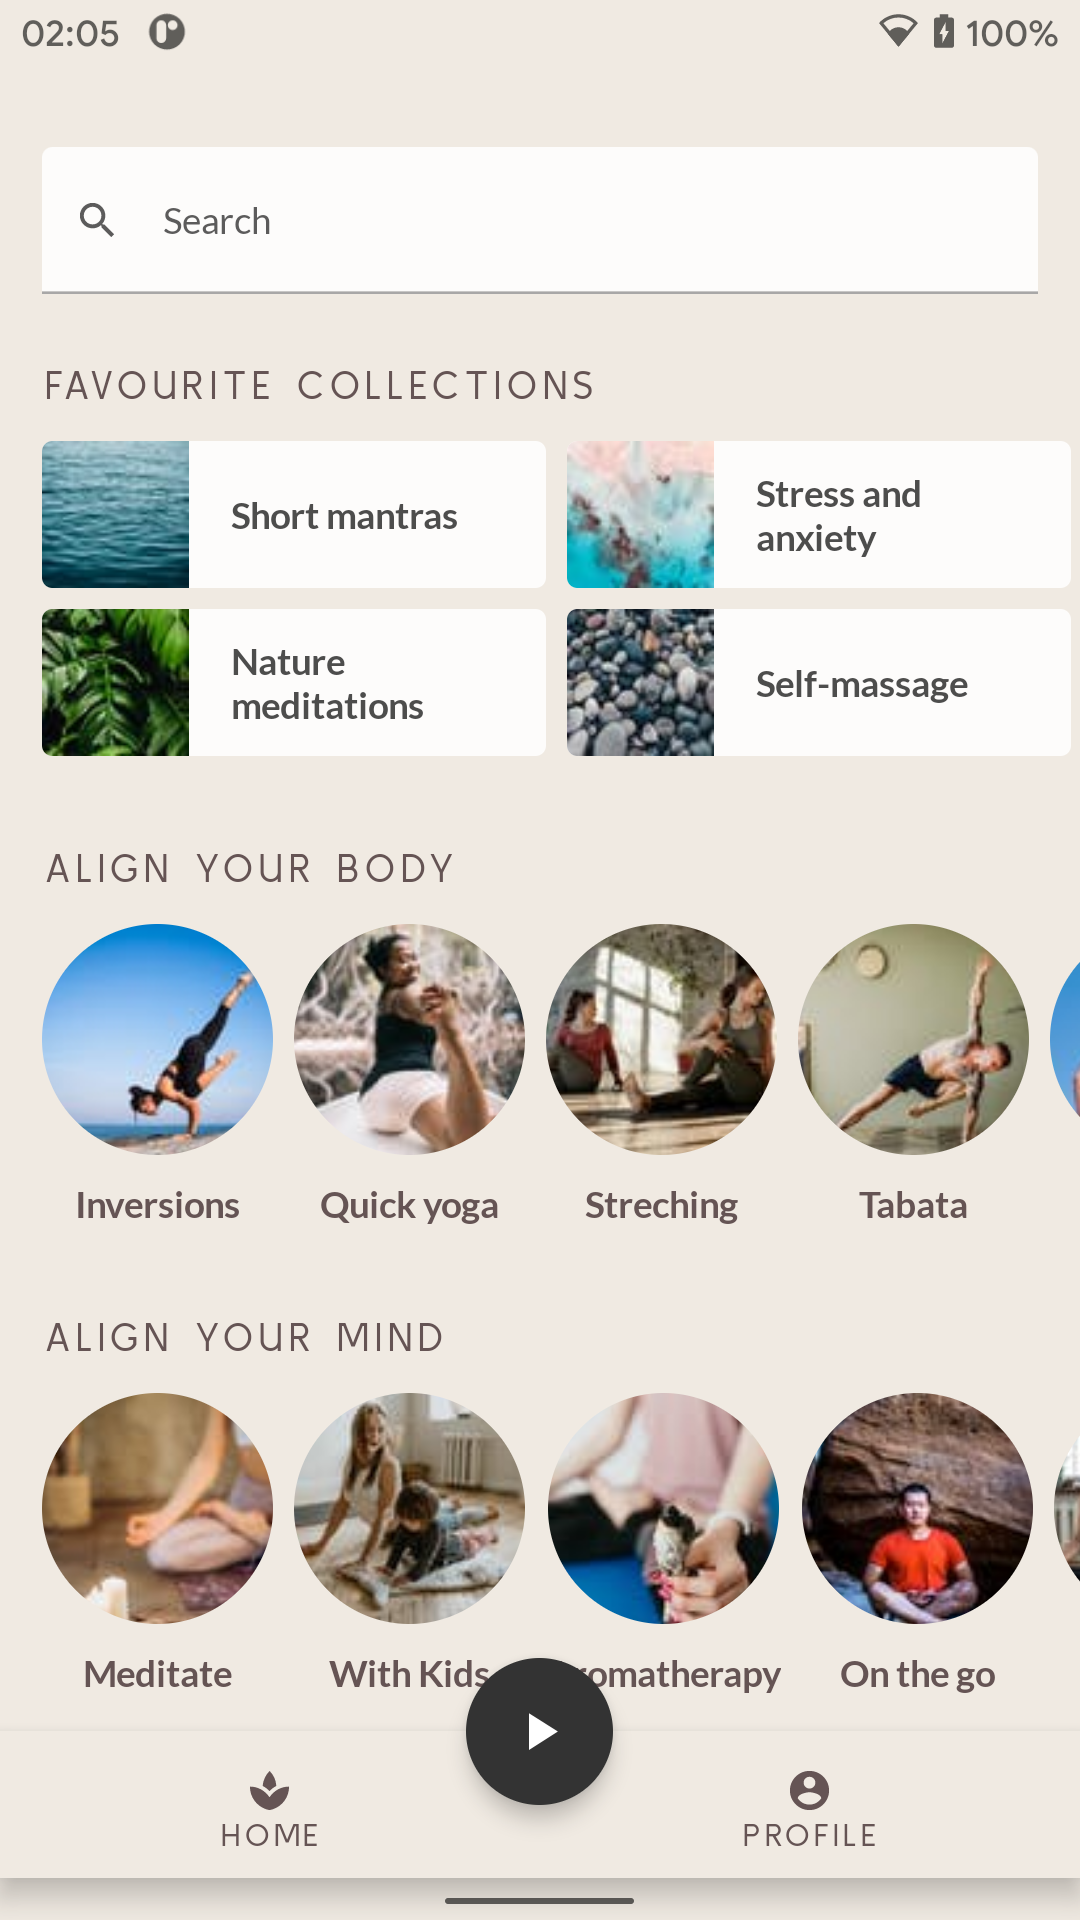
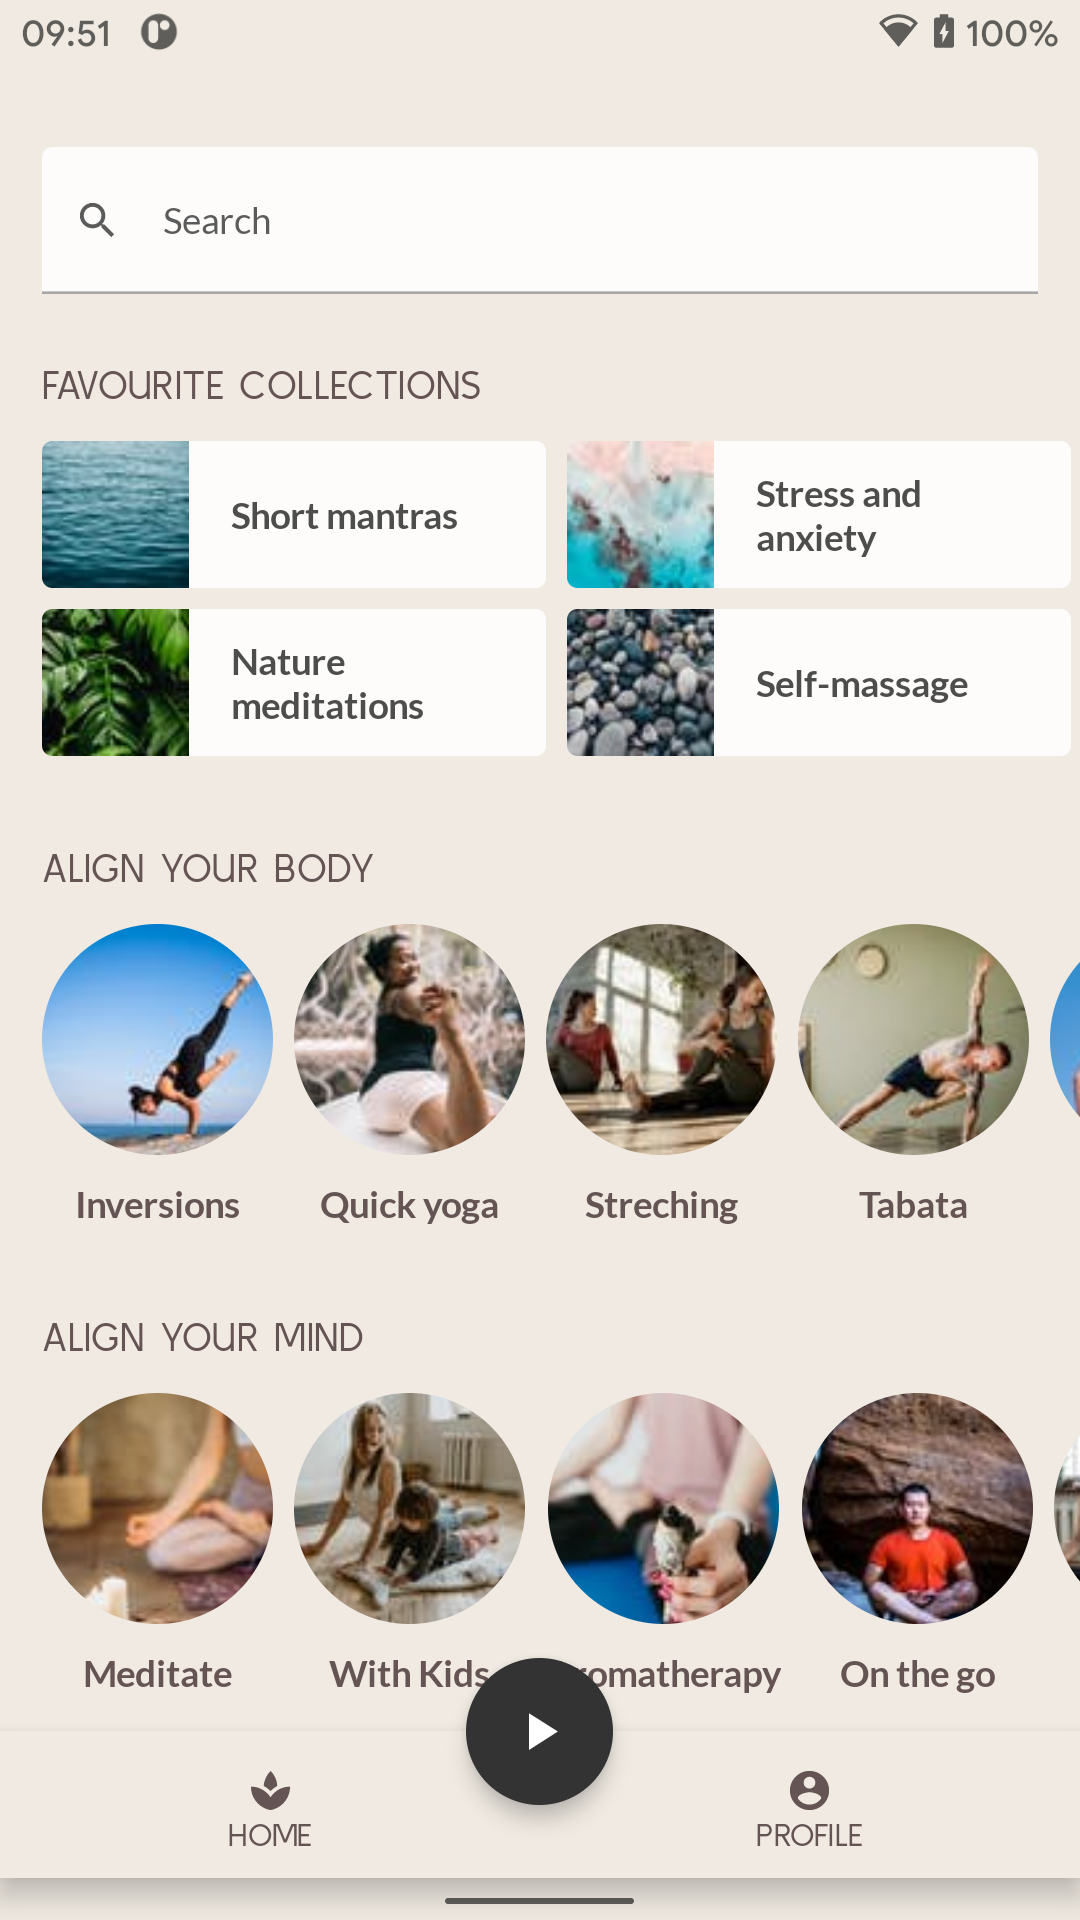
Update typografy letter spacing + use label for text fields

diff --git a/app/src/main/java/dev/danielesegato/androiddevchallenge/mysoothe/ui/theme/Type.kt b/app/src/main/java/dev/danielesegato/androiddevchallenge/mysoothe/ui/theme/Type.kt
@@ -39,39 +39,39 @@ val typography = Typography(
         fontFamily = fontFamilyKulimPark,
         fontWeight = FontWeight.Light,
         fontSize = 28.sp,
-        letterSpacing = 0.15.em,
+        letterSpacing = 0.15.sp,
     ),
     h2 = TextStyle(
         fontFamily = fontFamilyKulimPark,
         fontWeight = FontWeight.Normal,
         fontSize = 15.sp,
-        letterSpacing = 0.15.em,
+        letterSpacing = 0.15.sp,
         // TODO check if we can capitalize here
     ),
     h3 = TextStyle(
         fontFamily = fontFamilyLato,
         fontWeight = FontWeight.Bold,
         fontSize = 14.sp,
-        letterSpacing = 0.em,
+        letterSpacing = 0.sp,
     ),
     body1 = TextStyle(
         fontFamily = fontFamilyLato,
         fontWeight = FontWeight.Normal,
         fontSize = 14.sp,
-        letterSpacing = 0.em,
+        letterSpacing = 0.sp,
     ),
     button = TextStyle(
         fontFamily = fontFamilyLato,
         fontWeight = FontWeight.Bold,
         fontSize = 14.sp,
-        letterSpacing = 0.15.em,
+        letterSpacing = 0.15.sp,
         // TODO check if we can capitalize here
     ),
     caption = TextStyle(
         fontFamily = fontFamilyKulimPark,
         fontWeight = FontWeight.Normal,
         fontSize = 12.sp,
-        letterSpacing = 0.15.em,
+        letterSpacing = 0.15.sp,
         // TODO check if we can capitalize here
     ),
 )

diff --git a/app/src/main/java/dev/danielesegato/androiddevchallenge/mysoothe/login/Login.kt b/app/src/main/java/dev/danielesegato/androiddevchallenge/mysoothe/login/Login.kt
@@ -109,6 +109,12 @@ private fun LoginContent(
             colors = TextFieldDefaults.textFieldColors(
                 backgroundColor = MaterialTheme.colors.surface,
             ),
+            label = {
+                Text(
+                    text = stringResource(R.string.login_field_email_label),
+                    style = MaterialTheme.typography.body1,
+                )
+            },
             // TODO how do I increase the indicator width?
             placeholder = {
                 // TODO how do I add padding to it?
@@ -141,6 +147,12 @@ private fun LoginContent(
             colors = TextFieldDefaults.textFieldColors(
                 backgroundColor = MaterialTheme.colors.surface,
             ),
+            label = {
+                Text(
+                    text = stringResource(R.string.login_field_password_label),
+                    style = MaterialTheme.typography.body1,
+                )
+            },
             placeholder = {
                 Text(
                     text = stringResource(R.string.login_field_password_hint),
